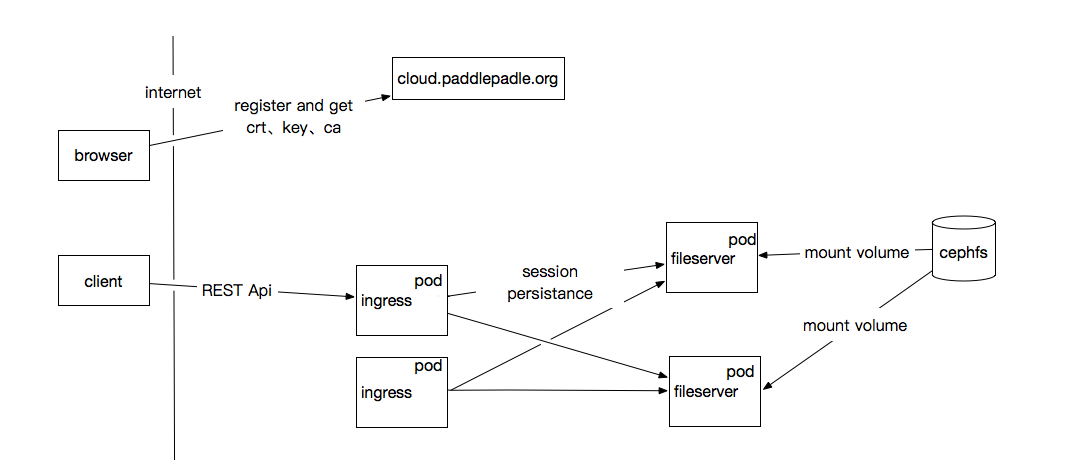
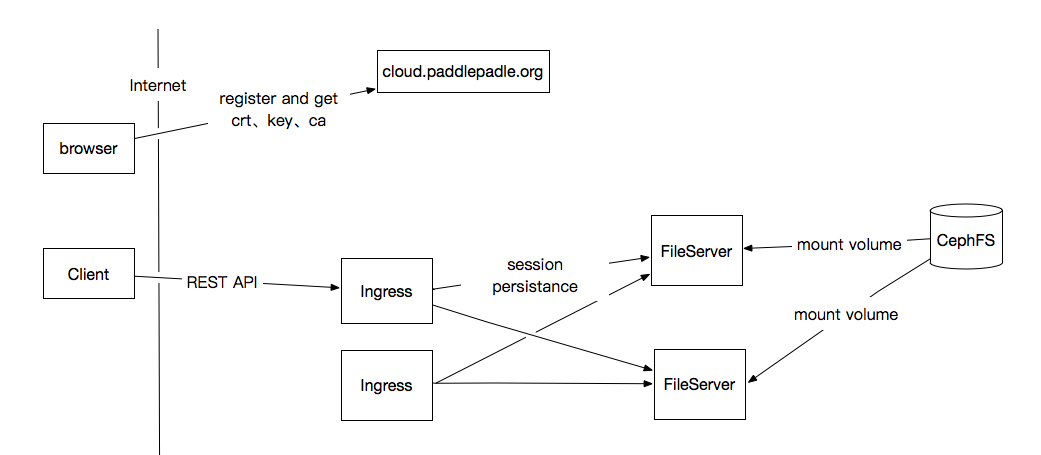
modify by comments

diff --git a/doc/design/file_mananger/README.md b/doc/design/file_mananger/README.md
@@ -1,11 +1,20 @@
-# Desgin doc: FileManager
-## Objetive
-在本文档中，我们设计说明了用户上传、下载、管理自己在PaddlePaddle Cloud上的文件所涉及到的模块和流程
+# FileManager设计文档
+## 名词解释
+- PFS：是Paddle cloud File System的简称。与之相对的是Local File System。
+- FileServer：接收用户管理文件命令的服务端
+- FileManger：用户管理自己自己在PFS文件上的系统称为FileManager
+- CephFS：是个POSIX 兼容的文件系统，它使用 Ceph 存储集群来存储数据.
+- Chunk：逻辑划分文件的一个单位，用于文件分块上传或者下载。
+- Ingress：Layer 7 Load Balancer
+
+## 目标
+在本文档中，我们设计说明了用户上传、下载、管理自己在PaddlePaddle Cloud上的文件所涉及到的模块和流程。架构图如下所示：
 
 <image src=./src/filemanager.png width=8900>
 
-## Module
-### PFS Client
+
+
+## PFS Client
 - 提供用户管理Cloud文件的命令
 - 用Golang写，可以跨平台执行
 
@@ -14,66 +23,61 @@
 
 ### Ingress
 - 在kubernets中运行
-- 做Http转发、负载均衡
+- 做HTTP转发、负载均衡
 	- 注意配置session保持，以便来自一个用户的访问可以定向到一个固定的机器上，减少冲突写的机会。
 
 
-### FileServer
+## FileServer
 功能说明:  
-- gorpc写的HttpServer  
+- goRPC写的HTTPServer  
 - 响应外部的REST API的请求  
-- 在kubernets中运行  
+- 在kubernetes中运行  
 - [RESTAPI](./RESTAPI.md)接口
 
-## 解释
-### 为什么有chunk的抽象：  
-用户文件可能是比较大的，上传到Cloud或者下载到本地的时间可能比较长，而且在传输的过程中也可能出现网络不稳定的情况。为了应对以上的问题，我们提出了chunk的概念，一个chunk由所在的文件偏移、数据、数据长度及校验值组成。文件数据内容的上传和下载都是都过chunk的操作来实现的。由于chunk比较小（默认256K），完成一个传输动作的transaction的时间也比较短，不容易出错。
+## 文件传输
+### 文件权限
+- 每一个用户在Cloud注册后可以申请分配用户空间，系统默认会在CephFS上分配一个固定大小（比如初始10G）的、有所有权限的volume，对用户而言就是自己的`home`目录。用户彼此之间的数据是隔离的、无法访问的。用户的空间大小第一期也不允许扩大。
+- 公共数据集合放到一个单独的volume下，对所有外部用户只读。由于其被读取的可能比较频繁，需要提高其备份数，防止成为热点文件。
+
+### 用户认证
+身份的认证来自于用户或者程序是否有crt标识身份，以及是否有可信的CA确认这个身份证是否有效。我们这里描述的crt涉及到两个部分，一个是Client端程序访问FileServer的crt，不妨称之为Client crt；另外一个是FileServer访问CephFS的crt，不妨称之为CephFS crt。
+
+- Client和FileServer相互认证的办法   
+`cloud.paddlepaddle.org`需要有自己的CA，FileServer和注册用户也要为其生成各自的私钥(key)、crt。这样用户把CA、自己的key和crt下载到本地后，Client程序可以用之和FileServer可以做相互的认证。
+
+- CephFS验证FileServer的身份的方法  
+	CephFS crt只有一个，也就是admin crt，拥有所有volume的读写权限。  FileServer从Client crt提取Client的身份（username），限制其可以操作的volume。 
+
+### 分块文件上传
+用户文件可能是比较大的，上传到Cloud或者下载到本地的时间可能比较长，而且在传输的过程中也可能出现网络不稳定的情况。为了应对以上的问题，我们提出了chunk的概念，一个chunk由所在的文件偏移、数据、数据长度及校验值组成。文件数据内容的上传和下载都是都过chunk的操作来实现的。由于chunk比较小（默认256K），完成一个传输动作完成的时间也比较短，不容易出错。
 
 一个典型的chunk如下所示：
 
 ```
 type Chunk struct {
-	filePos int64
-	checkSum uint32
+	fileOffset int64
+	checksum uint32
 	len     uint32
 	data    []byte
 }
 ```  
 
-### 关于文件权限
-- 每一个用户在Cloud注册后可以申请分配用户空间，系统默认会在CephFS上分配一个固定大小（比如初始10G）的、有所有权限的volume，对用户而言就是自己的`home`目录。用户彼此之间的数据是隔离的、无法访问的。用户的空间大小第一期也不允许扩大。
-- 公共数据集合放到一个单独的volume下，对所有外部用户只读。由于其被读取的可能比较频繁，需要提高其备份数，防止成为热点文件。
-
-### 关于认证
-> 通信各方都需要有各自的身份证。一个公司可以自签名一个CA身份证，并 且用它来给每个雇员以及每个程序签署身份证。这样，只要每台电脑上都预先安 装好公司自己的CA身份证，就可以用这个身份证验证每个雇员和程序的身份了。 这是目前很多公司的常用做法  
-
-身份的认证来自于用户或者程序是否有crt标识身份，以及是否有可信的CA确认这个身份证是否有效。我们这里描述的crt涉及到两个部分，一个是Client端程序访问FileServer的crt，不妨称之为Client crt；另外一个是FileServer访问CephFS的crt，不妨称之为CephFS crt。
-
-- Client和FileServer相互认证的办法   
-`cloud.paddlepaddle.org`需要有自己的CA，FileServer和注册用户也要为其生成各自的私钥(key)、crt。这样用户把CA、自己的key和crt下载到本地后，Client程序可以用之和FileServer可以做相互的认证
-
-- CephFS验证FileServer的身份的两种方法
-	- 第一种：每一个用户都有自己单独的访问CephFS crt。
-	用户访问其空间时，由FileServer读取它然后才可以在CephFS上完成操作。
-	- 第二种：CephFS crt只有一个，也就是admin crt，拥有所有volume的读写权限。  
-	FileServer从Client crt提取Client的身份（username），限制其可以操作的volume。 我们选择这种。
-
-### 关于文件传输
-文件传输的的关键在于需要Client端对比src和dst的文件chunks的checkSum是否保持一致，不一致的由Client Get或者Post chunk完成。藉由上述的方法完成断点的数据传输。 upload文件时，由于一个文件可以是多个FileServer可写的，存在冲突的机会，需要Client端在Post最后一个chunk的时候检查dest文件的MD5值是否和本地文件一致。
+### 文件传输的优化
+文件传输的的关键在于需要Client端对比source和destination的文件chunks的checkSum是否保持一致，不一致的由Client Get或者Post chunk完成。藉由上述的方法完成断点的数据传输。 upload文件时，由于一个文件可以是多个FileServer可写的，存在冲突的机会，需要Client端在Post最后一个chunk的时候检查dest文件的MD5值是否和本地文件一致。
 
 - 优化的方法:  
 
 	- dst文件不存在时，可以没有Get的过程，只有Post。
-	- 文件的chunks信息可以做cache，不用每次启动传输都去读和计算。这个由于比较复杂，第一期暂时不做。
 
 - 小的技巧：
 
 	- 可以用[Fallocate](https://golang.org/pkg/syscall/#Fallocate)生成sparse文件，让dst和src文件保持相同的大小。不同位置的chunk可以同时写入。
 
-### 关于框架
-准备拿出一点时间测试一下用[swagger-api](https://github.com/swagger-api/swagger-codegen)生成Client和FileServer的框架部分。如果框架生成好用，我们的精力就可以更多的放到逻辑本身上。
+
+## 框架生成
+用[swagger-api](https://github.com/swagger-api/swagger-codegen)生成Client和FileServer的框架部分，以便我们可以把更多的精力放到逻辑本身上。
 
 ## 参考文档
-- [Do you see tls?](https://github.com/k8sp/tls/blob/master/README.md)
-- [s3](http://docs.aws.amazon.com/cli/latest/reference/s3/)
-- linux man document
+- [TLS complete guide](https://github.com/k8sp/tls/blob/master/README.md)
+- [aws.s3](http://docs.aws.amazon.com/cli/latest/reference/s3/)
+- [linux man document](https://linux.die.net/man/)
